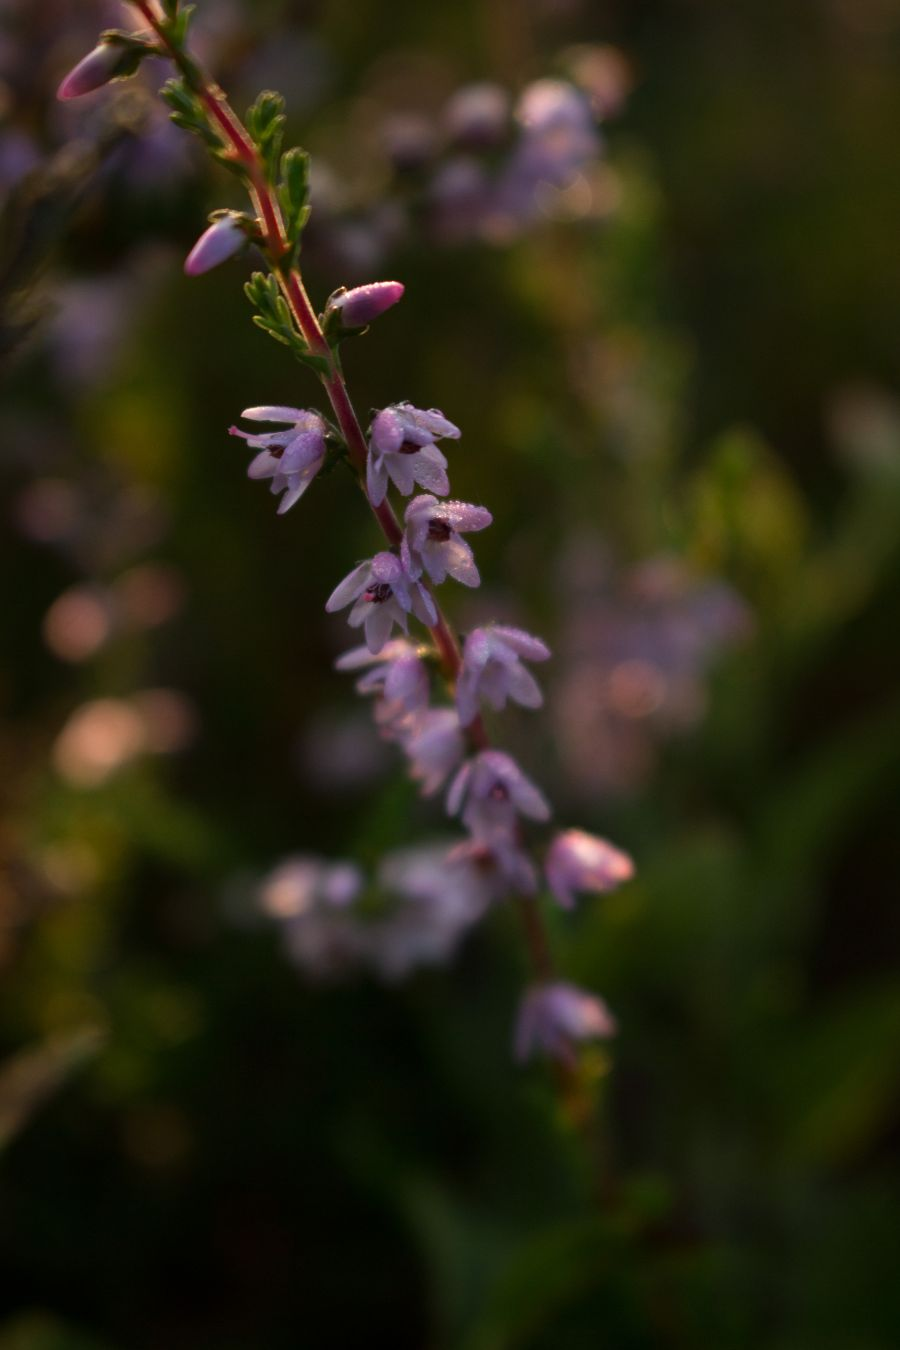
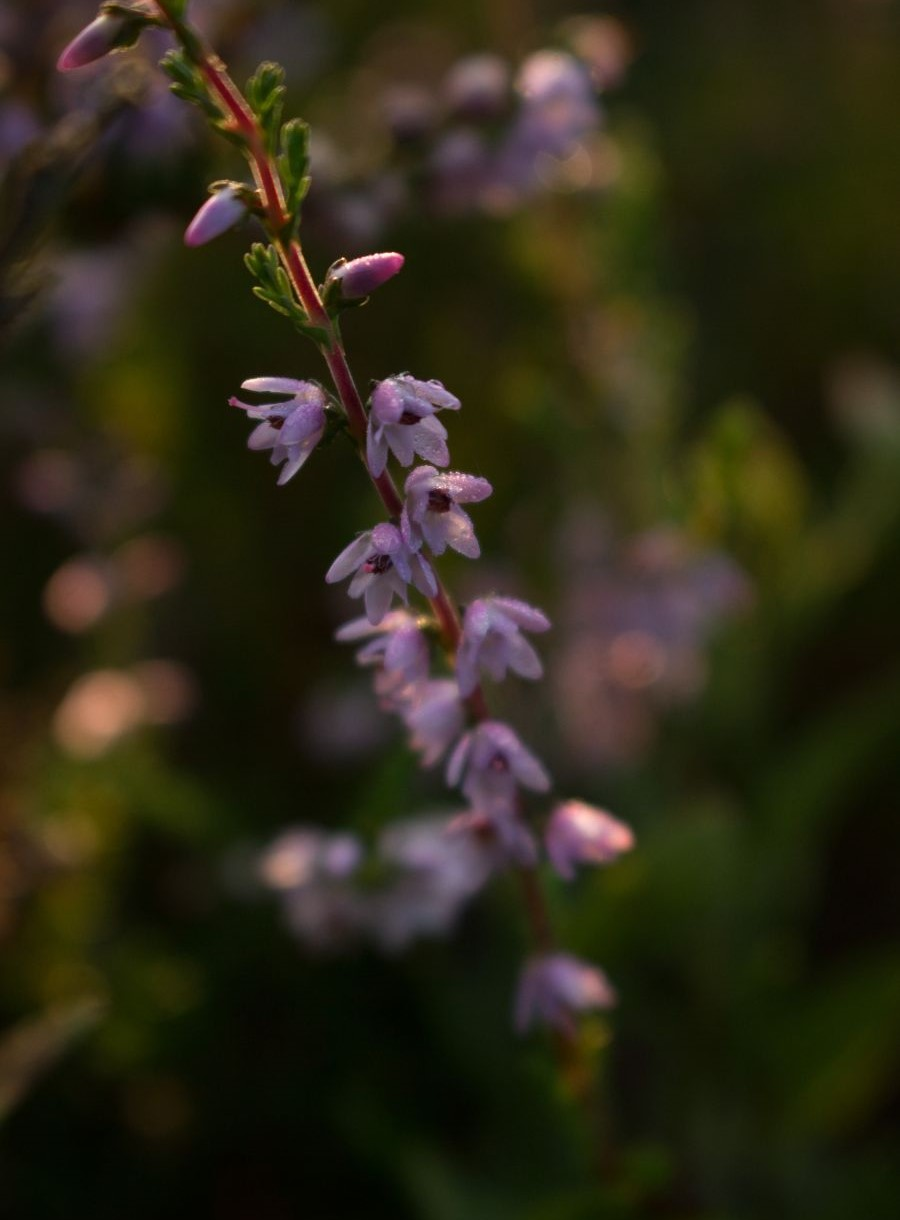
Sekce tvorba

diff --git a/index.html b/index.html
@@ -53,7 +53,9 @@
   </section>
 
   <!--Sekce Tvorba-->
-  <section class="tvorba" id="tvorba">
+  <section class="tvorba" id="tvorba"> 
+    
+    <img src="Foto/img-023.jpg" alt="Fotografie květiny" class="foto-tvorba">
 
     <h2>TVORBA</h2>
 
@@ -62,8 +64,6 @@
       <li>Na vysoké škole jsem se potom poprvé seznámila kromě fotografie i s grafickou tvorbou a to jak v podobě 2D tak i 3D grafiky, k čemuž se později přidala i animace. Na světě 3D grafiky mě uchvátila absolutní svoboda, ve které vás nelimitují žádné fyzikální zákony, ale jste to jen vy a vaše dovednosti.</li>
       <li>V poslední řadě se ke všemu předešlému přidala i audiovizuální tvorba. Přes krátká reportážní videa jsme se v závěru studia dopracovali až k natáčení krátkometrážního filmu. Nebudu vám lhát byla to pořádná fuška, ale nakonec z toho vznikl povedený projekt.</li>
     </ol>
-
-    <img src="Foto/img-023.jpg" alt="Fotografie květiny">
 
   </section>
 

diff --git a/style.css b/style.css
@@ -2,6 +2,8 @@
 body{
   font-family: 'Montserrat', sans-serif;
   margin: 0;
+  font-size: 20px;
+  line-height: 1.5;
 }
 
 .menu, .menu2{
@@ -9,8 +11,6 @@ body{
   padding: 0;
   text-align: center;
 }
-
-
 
 .menu li {
   display: inline-block;
@@ -60,6 +60,7 @@ h3{
 .motto{
   padding-top: 100px;
   padding-bottom: 100px;
+  background-color: rgb(255, 252, 247);
 }
 
 .kdojsem{
@@ -81,6 +82,20 @@ h2{
   font-size: 40px;
 }
 
-.kdojsem p{
-  font-size: 20px;
+.tvorba{
+  background-color:rgb(255, 252, 247);
+  color:rgb(79, 56, 36);
+  padding: 85px;
+  overflow: auto;
+  text-align: left;
+}
+
+.foto-tvorba{
+  float: left;
+  height: 700px;
+  margin-right: 85px
+}
+
+.tvorba li{
+  margin-bottom: 30px;
 }
